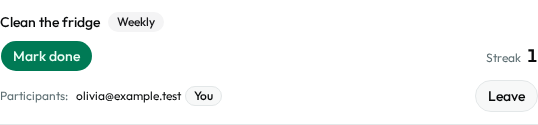
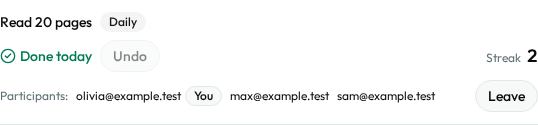
fix(dashboard-ui): full-plan review fixes and impl review report
Full-plan /10x-impl-review of S-11 on master at 9ae70ee: APPROVED,
0 critical, 1 warning and 4 observations, all fixed.

- ui-screenshots: pin a control's region before its action, so the
  check-off pending shot shows the tapped row, and wait for the held
  state inside that row; re-capture the two checkoff-pending shots (F1)
- CLAUDE.md: the UI rules name the settings markup and SettingsView (F2)
- ui-screenshots: require OUT_DIR instead of defaulting to this
  change's folder, which moves at archive; README says so (F3)
- records: the S-12 plan line in deployment-plan.md, and change.md
  says that the /settings page answers 503, not its loader (F4)
- kitchen sink: "checked-off" instead of "ticked", which the
  glossary rules out (F5)
- change.md: status impl_reviewed

diff --git a/src/components/dev/DashboardControlStates.tsx b/src/components/dev/DashboardControlStates.tsx
@@ -167,7 +167,10 @@ export default function DashboardControlStates() {
         </div>
       </StateCard>
 
-      <StateCard title="Done state" description="A ticked daily and once task: the success colour, the icon and Undo">
+      <StateCard
+        title="Done state"
+        description="A checked-off daily and once task: the success colour, the icon and Undo"
+      >
         <CheckoffControl
           taskId={DEMO_TASK_ID}
           title="Water the plants"

diff --git a/context/changes/dashboard-ui/reviews/impl-review.md b/context/changes/dashboard-ui/reviews/impl-review.md
@@ -1,0 +1,160 @@
+<!-- IMPL-REVIEW-REPORT -->
+
+# Implementation Review: Dashboard UI Implementation Plan
+
+- **Plan**: context/changes/dashboard-ui/plan.md
+- **Scope**: Full plan
+- **Reviewed phases**: 1, 2, 3
+- **Date**: 2026-10-12
+- **Verdict**: APPROVED (after triage: F1–F5 fixed)
+- **Findings**: 0 critical, 1 warning, 4 observations
+
+## Verdicts
+
+| Dimension           | Verdict               |
+| ------------------- | --------------------- |
+| Plan Adherence      | PASS (2 observations) |
+| Scope Discipline    | PASS                  |
+| Safety & Quality    | PASS                  |
+| Architecture        | PASS (1 observation)  |
+| Pattern Consistency | PASS (1 observation)  |
+| Success Criteria    | WARNING (1 finding)   |
+
+## Scope and evidence
+
+- **Code reviewed.** `master` at `9ae70ee`, after the merge of PR #104, compared with the plan merge `2ec358b`. The range holds three phase PRs:
+  - PR #102 (`d52fa40`, `3abd5fd`);
+  - PR #103 (`2eba8e5`, `b2e14f9`);
+  - PR #104 (`fe33841`, `af3c093`).
+
+  The diff has 228 files, 166 of them screenshots.
+
+- **Plan adherence.** All 28 planned changes match the plan, or the owner's amendments in `change.md:115-131`: the `/settings` page, the Main nav, the 3:2 grid and the participants wording. Since review, `plan.md` has changed only in `## Progress`.
+- **Boundaries held.**
+  - Unchanged: `src/lib/dashboard-data.ts`, `tests/unit/dashboard-data.test.ts`, `src/pages/api/**`, `supabase/`, `package.json` and `package-lock.json`.
+  - The landing, privacy and auth pages changed only through the tokens.
+  - There is no `toHaveScreenshot` and no Playwright in CI.
+  - The `loadDashboard` lines that S-12 edits are byte-identical: `2ec358b:src/pages/dashboard.astro:18-38` equals `:7-27` on `master`.
+- **Markup invariants.** Every invariant the tests bind (`plan.md:233-252`) holds on `master`.
+- **Safety.**
+  - The `?error=` script interpolates nothing, and nothing in `src` uses `set:html`.
+  - In a production build the kitchen sink answers 404. `dist/` holds no `example.test`.
+  - `/settings` is protected: an exact match or `route + "/"`, on the decoded path.
+  - Astro's origin check is on, and `loadSettings` reports `settings.load.failed` with `requestFields`.
+  - The islands keep hydration parity, and there is no schema change.
+- **Earlier triage.** Every fix recorded in the three phase reviews is on `master`. The owner skipped phase 1 F1 (`.claude/settings.local.json` committed), so it is not raised again.
+- **Outside this review.** These are noted here, not raised as findings:
+  - The merge of PR #104 started run 38281674338. Its `release` waits in `production` and holds documents only, so the next release cancels it.
+  - The Node.js 20 and `ubuntu-latest` annotations from the phase 3 review still show on the release runs.
+  - The local branch `s-11/dashboard-ui/phase-1` holds `0b45e34`, which is not on `master`. Its tick reached `master` through PR #104. `git branch -d` refuses that branch, so `/10x-archive` asks before deleting it.
+
+## Success criteria
+
+| #                             | Check                                  | Result                                                                                                                                                                                                                                                                                    |
+| ----------------------------- | -------------------------------------- | ----------------------------------------------------------------------------------------------------------------------------------------------------------------------------------------------------------------------------------------------------------------------------------------- |
+| 1.1, 2.1                      | `npm run lint`                         | PASS                                                                                                                                                                                                                                                                                      |
+| 1.2                           | Guard probe on `MembersCard.astro`     | PASS: exit 1 with the guard's message                                                                                                                                                                                                                                                     |
+| 1.3, 2.2                      | Literal scan of the view files         | PASS: no hits, and none in `settings.astro`                                                                                                                                                                                                                                               |
+| 1.4, 2.3                      | `node scripts/token-contrast.mjs`      | PASS: all 17 gating pairs; D6 at 3.51:1 is information only                                                                                                                                                                                                                               |
+| 1.5, 2.4                      | `npx astro sync && npx astro check`    | PASS: 0 errors and 0 warnings; the 4 hints are in `context/audits/` probes, outside this change                                                                                                                                                                                           |
+| 1.6, 2.5                      | `npm run build`                        | PASS                                                                                                                                                                                                                                                                                      |
+| 1.7, 2.6                      | `npm test`                             | PASS: 30 files, 409 tests                                                                                                                                                                                                                                                                 |
+| 1.8, 2.7                      | Smoke on the production preview        | PASS: 227 steps, with `INFO  production build`. For the run, `CONTACT_EMAIL` was added to `.dev.vars` (CI sets it); the file was then restored with the same checksum, and `dist/` was rebuilt                                                                                            |
+| 1.9, 2.8                      | `npx playwright test`                  | PASS: 3 tests                                                                                                                                                                                                                                                                             |
+| 1.10, 1.11, 2.9               | The `rg` checks                        | PASS: no output                                                                                                                                                                                                                                                                           |
+| 1.12, 2.10                    | `gh pr checks 102`, `gh pr checks 103` | PASS: `changes`, `ci`, `integration` and `smoke` pass; `release` skips on a PR                                                                                                                                                                                                            |
+| 3.1                           | Release runs of both phase merges      | PASS with the `gh` 2.4.0 command in `change.md:135`: runs 38222989341 and 38277781844 end `success` in all five jobs                                                                                                                                                                      |
+| 1.13–1.16, 2.11–2.17, 3.2–3.4 | Manual rows in `## Progress`           | All ticked, with evidence: `before-public` and `phase1-public` (8 each), `phase1-states` (22), `after-states` (30, 15 states), `after-controls` (98, 49 controls), `change.md:91-131` and Phase 14 in `deployment-plan.md`. For 2.11, the two held check-off cells have no real shot (F1) |
+
+## After triage
+
+- **Files changed by the fixes.** These are on `s-11/dashboard-ui/review-fix`:
+  - `scripts/ui-screenshots.mjs` (F1, F3);
+  - the two `after-controls-checkoff-pending-*` files under `screenshots/` (F1);
+  - `CLAUDE.md` (F2);
+  - `README.md` (F3);
+  - `context/changes/deployment/deployment-plan.md` and `context/changes/dashboard-ui/change.md` (F4);
+  - `src/components/dev/DashboardControlStates.tsx` (F5).
+- **Checks.**
+  - `npm run lint` passes, and the literal scan of `src/components/dev` prints nothing.
+  - `npx prettier --check` passes on every changed text file.
+  - Without `OUT_DIR`, `node scripts/ui-screenshots.mjs after controls` prints the usage line and exits 1, and writes nothing.
+- **F1 re-capture.**
+  - **The run.** `OUT_DIR=<scratch> node scripts/ui-screenshots.mjs after controls`, against `astro dev` with the pages warmed. It took 98 shots and exited 0.
+  - **The new shots.** Both `checkoff-pending` shots show the tapped row "Read 20 pages" held: "Done today" in the success colour, a dimmed "Undo" and the streak raised from 1 to 2. Only these two files replaced the committed ones.
+  - **The rest.** 93 shots are byte-identical to the committed files. Three differ only in their animation frame (`add-task-hover-desktop`, `add-task-summary-hover-desktop`, `dialog-submitting-desktop`) and were not replaced.
+- **Not affected.** The fixes touch no code that smoke, Vitest or the build cover. `DashboardControlStates` renders only in the dev kitchen sink.
+
+## Findings
+
+### F1 — The check-off pending shot shows the wrong row
+
+- **Severity**: ⚠ WARNING
+- **Impact**: 🏃 LOW — quick decision; fix is obvious and narrowly scoped
+- **Dimension**: Success Criteria
+- **Location**: scripts/ui-screenshots.mjs:234-246 (with :40, :45, :405, :418), context/changes/dashboard-ui/screenshots/after-controls-checkoff-pending-{desktop,mobile}.png
+- **Detail**: The check-off row of the 7-state matrix (`plan.md:765`) needs two shots of a held request: "dimmed and `aria-disabled`" (disabled) and "optimistic flip" (loading). The `checkoff-pending` control is meant to give both.
+  - **How it goes wrong.**
+    - The region is a lazy locator: the `li` above the first button named "Mark done …" (`inRow(markDone(p))`, :40, :45), built at :405.
+    - `run` clicks that button, so its row flips to "Undo …".
+    - `capture()` (:418) then resolves the locator again and finds the next row that still has "Mark done".
+  - **Why the script still exits 0.** The wait at :243 looks for any `[aria-disabled="true"]` on the page, not in the region.
+  - **The committed shots.** Both `after-controls-checkoff-pending-*` files show "Clean the fridge / Weekly" with an enabled "Mark done". `checkoff-failed` shows the row that was tapped, "Read 20 pages".
+  - **Effect.** Criterion 2.11 is ticked, and the phase 2 review listed this shot as evidence (`impl-review-phase-2.md:79`). The check-off logic is unchanged since `2ec358b`, so what is missing is the evidence for those two cells. S-13 inherits the gate and would capture the wrong row again.
+- **Fix**: Pin the region before `run`, by taking `region.elementHandle()` in the loop at :404-418. Fail when the captured row holds no `[aria-disabled="true"]`. Then re-run the `controls` set against `astro dev` into a scratch `OUT_DIR`, and replace only the two `after-controls-checkoff-pending-*` files.
+- **Decision**: FIXED (Fix now).
+  - `shootControls` now pins the region with `elementHandle()` before the action and passes it to `run`.
+  - `checkoff-pending` waits for `[aria-disabled="true"]` inside the tapped row, so a wrong row now fails the run.
+  - The two re-captured shots replace the committed ones.
+
+### F2 — CLAUDE.md's UI rules leave out /settings
+
+- **Severity**: ℹ OBSERVATION
+- **Impact**: 🏃 LOW — quick decision; fix is obvious and narrowly scoped
+- **Dimension**: Plan Adherence
+- **Location**: CLAUDE.md:37-38
+- **Detail**: Phase 1 wrote the rules for the dashboard. Phase 2 added `settings.astro` only to the "No literals" bullet (:35, phase 2 F1).
+  - **"Smoke binds the markup"** (:37) says that smoke binds "the dashboard markup". It now binds the `/settings` markup too: `groupSettingsFor` and `DASHBOARD_LINK_IN_MAIN` (`smoke.mjs:392-397`), and six `settings …` steps (`:751` to `:2069`).
+  - **"The gate"** (:38) says the kitchen sink renders "the real `DashboardView`". It also renders `SettingsView` in four `settings-*` states (`dashboard-kitchen-sink.astro:45`, `dashboard-fixtures.ts:44-47`). README.md:335 already says so.
+- **Fix**: At :37, say that smoke binds the dashboard and settings markup. At :38, name `SettingsView` and its `settings-*` states.
+- **Decision**: FIXED (Fix now). CLAUDE.md:37 now says "the dashboard and settings markup". CLAUDE.md:38 now says that the kitchen sink renders `DashboardView` and `SettingsView` in every page state of `/dashboard` and `/settings` (`settings-*`).
+
+### F3 — The screenshot script writes into this change's folder by default
+
+- **Severity**: ℹ OBSERVATION
+- **Impact**: 🏃 LOW — quick decision; fix is obvious and narrowly scoped
+- **Dimension**: Architecture
+- **Location**: scripts/ui-screenshots.mjs:14, README.md:335
+- **Detail**: CLAUDE.md:38 presents the script as the standing UI gate, but `OUT_DIR` defaults to `context/changes/dashboard-ui/screenshots` (:14). Plan P1.8 asked for that default, and README.md:335 documents it.
+  - `/10x-archive` moves the change folder to `context/archive/`.
+  - A later run without `OUT_DIR`, for example in S-13, then creates `context/changes/dashboard-ui/` again, with no `change.md` (`mkdir` with `recursive: true`, :434).
+  - Before the archive, a reused prefix such as `after` overwrites this slice's evidence.
+- **Fix**: Exit 1 with the usage line when `OUT_DIR` is not set. Change README.md:335 to say that `OUT_DIR` names the change's `screenshots/` folder.
+- **Decision**: FIXED (Fix now).
+  - `OUT_DIR` has no default.
+  - Without it, the script prints `Usage: OUT_DIR=context/changes/<change-id>/screenshots node scripts/ui-screenshots.mjs …` and exits 1. The header comment gives the same form.
+  - README.md:335 says that `OUT_DIR` is required and names the change's `screenshots/` folder.
+
+### F4 — Two record lines are inaccurate
+
+- **Severity**: ℹ OBSERVATION
+- **Impact**: 🏃 LOW — quick decision; fix is obvious and narrowly scoped
+- **Dimension**: Plan Adherence
+- **Location**: context/changes/deployment/deployment-plan.md:270, context/changes/dashboard-ui/change.md:117
+- **Detail**:
+  - **deployment-plan.md:270** cites `refactor-opportunities/plan.md:385` for S-12's `dashboard.astro:33-38` pointer. Phase 3 F1 inserted a note at :344, so the pointer moved to :386; :385 is now the "Patterns" line.
+  - **change.md:117** says that `loadSettings` "przy błędzie raportuje `settings.load.failed` i odpowiada 503". The loader only returns `loadFailed` (`settings-data.ts:31-34`); the page sets the status (`settings.astro:16`). Phase 3 F3 fixed the same wording in `deployment-plan.md`, but not here.
+- **Fix**: In deployment-plan.md:270, change `:385` to `:386`. In change.md:117, reword the clause to "…raportuje `settings.load.failed`, a strona odpowiada wtedy 503".
+- **Decision**: FIXED (Fix now). deployment-plan.md:270 now cites `refactor-opportunities/plan.md:386`. change.md:117 now reads "…raportuje `settings.load.failed`; strona odpowiada wtedy 503".
+
+### F5 — Kitchen-sink text says "ticked", which the glossary rules out
+
+- **Severity**: ℹ OBSERVATION
+- **Impact**: 🏃 LOW — quick decision; fix is obvious and narrowly scoped
+- **Dimension**: Pattern Consistency
+- **Location**: src/components/dev/DashboardControlStates.tsx:170
+- **Detail**: The "Done state" card's description reads "A ticked daily and once task: the success colour, the icon and Undo".
+  - The glossary row "Odznaczenie" (`context/domain/glossary.md:25`) lists "tick" under "Nie nazywaj", except in comments.
+  - This is the only such word the change adds outside comments. The smoke step names that say "tick" predate S-11.
+- **Fix**: Reword it to "A checked-off daily and once task: the success colour, the icon and Undo".
+- **Decision**: FIXED (Fix now). The description now reads "A checked-off daily and once task: …", and Prettier wraps the `StateCard` props onto their own lines.

diff --git a/README.md b/README.md
@@ -332,7 +332,7 @@ BASE_URL=http://localhost:4321 npm run smoke
 
 It needs a reachable Supabase instance (local or cloud) with email confirmation disabled and all migrations from `supabase/migrations/` applied (groups, tasks, task participation, check-offs).
 
-**Dashboard kitchen sink and screenshots.** In dev (`npm run dev`), `/dev/dashboard-kitchen-sink` lists every page state of the dashboard (`?state=owner`, `member`, `no-group`, `load-failed` and the rest) and of the settings page (`settings-owner`, `settings-member`, `settings-no-group`, `settings-load-failed`), rendered by the real `DashboardView` or `SettingsView` inside `AppLayout` from fixture data, with no Supabase call, and shows the control states; a production build answers 404. `node scripts/ui-screenshots.mjs <prefix> <set...>` captures the sets `public` (the public pages), `states` (every kitchen-sink state) and `controls` (hover, focus and the pending and failed states of representative controls) with Playwright's Chromium at 1280×800 and 375×812, into `context/changes/dashboard-ui/screenshots/` (`OUT_DIR` overrides it), against a running dev server (`BASE_URL`, default `http://localhost:4321`). Stop that dev server before running smoke or Playwright against the production preview on the same port.
+**Dashboard kitchen sink and screenshots.** In dev (`npm run dev`), `/dev/dashboard-kitchen-sink` lists every page state of the dashboard (`?state=owner`, `member`, `no-group`, `load-failed` and the rest) and of the settings page (`settings-owner`, `settings-member`, `settings-no-group`, `settings-load-failed`), rendered by the real `DashboardView` or `SettingsView` inside `AppLayout` from fixture data, with no Supabase call, and shows the control states; a production build answers 404. `node scripts/ui-screenshots.mjs <prefix> <set...>` captures the sets `public` (the public pages), `states` (every kitchen-sink state) and `controls` (hover, focus and the pending and failed states of representative controls) with Playwright's Chromium at 1280×800 and 375×812, into the folder named by `OUT_DIR` (required: the change's `screenshots/` folder, e.g. `context/changes/<change-id>/screenshots`), against a running dev server (`BASE_URL`, default `http://localhost:4321`). Stop that dev server before running smoke or Playwright against the production preview on the same port.
 
 > **Note:** this script exists primarily to guard the development of the starter itself — it is a fast sanity check that dependency upgrades did not break the build, the Cloudflare adapter or the Supabase auth flow. It is **not** a substitute for a real test suite. Once you build your own product on top of this starter, add proper tests (unit, integration, end-to-end) suited to your application.
 

diff --git a/CLAUDE.md b/CLAUDE.md
@@ -34,8 +34,8 @@ Astro 7 SSR app (`output: "server"` in `astro.config.mjs`) with React 19 islands
 - **Components.** They live in `src/components/ui/` (`radix-maia`, lucide icons). Check there before creating one, and add a missing one with `npx shadcn@latest add <name>` (preview with `--dry-run`). The registry imports `cn` from the npm package `cn`: point the new file at `@/lib/utils` and restore the package files (`git checkout -- package.json package-lock.json && npm ci`); ESLint rejects the `cn` package import. Shared form pieces (`FormField`, `SubmitButton`) live in `src/components/forms/`.
 - **No literals.** No literal colours or arbitrary values in views; use tokens. In the dashboard view files (`src/pages/dashboard.astro`, `src/pages/settings.astro`, `src/pages/dev/`, `src/layouts/`, `src/components/{dashboard,tasks,groups,forms,site,dev}/`) ESLint rejects hex colours, colour functions, Tailwind palette classes and arbitrary px/rem values; other arbitrary values (`%`, `calc()`, `var()`) are left to review. When prose trips the rule, reword it; do not weaken the rule.
 - **No `asChild` from `.astro`.** Astro hands a React component its `.astro` children as static HTML, so `asChild` loses the child's props. Use `CardTitle as="h2"` for card headings, and `<a class:list={buttonVariants(...)}>` for link buttons.
-- **Smoke binds the markup.** `scripts/smoke.mjs` binds the dashboard markup with regular expressions (one `<li>` per task, exact `<h2>` card headings, badges and buttons holding only their text, `role="alert"` only for errors): keep its invariants, or change smoke in the same change.
-- **The gate.** The dev-only kitchen sink `/dev/dashboard-kitchen-sink` renders the real `DashboardView` from fixtures (`src/components/dev/dashboard-fixtures.ts`) in every page state, plus the control states. `scripts/ui-screenshots.mjs` captures them against a running `astro dev` (see `@README.md`, Smoke test).
+- **Smoke binds the markup.** `scripts/smoke.mjs` binds the dashboard and settings markup with regular expressions (one `<li>` per task, exact `<h2>` card headings, badges and buttons holding only their text, `role="alert"` only for errors): keep its invariants, or change smoke in the same change.
+- **The gate.** The dev-only kitchen sink `/dev/dashboard-kitchen-sink` renders the real `DashboardView` and `SettingsView` from fixtures (`src/components/dev/dashboard-fixtures.ts`) in every page state of `/dashboard` and `/settings` (`settings-*`), plus the control states. `scripts/ui-screenshots.mjs` captures them against a running `astro dev` (see `@README.md`, Smoke test).
 
 ## Parallel work (git worktrees)
 

diff --git a/context/changes/dashboard-ui/change.md b/context/changes/dashboard-ui/change.md
@@ -1,7 +1,7 @@
 ---
 change_id: dashboard-ui
 title: Dashboard ui
-status: implemented
+status: impl_reviewed
 created: 2026-10-09
 updated: 2026-10-12
 archived_at: null
@@ -114,7 +114,7 @@ Przekazania:
 
 ### Decyzje właściciela po przeglądzie ręcznym fazy 2 (2026-10-12)
 
-- **Ustawienia grupy na osobnej stronie.** Karta „Group settings” opuszcza dashboard i jest na nowej chronionej stronie `/settings` (`src/pages/settings.astro`, widok `SettingsView.astro`, loader `loadSettings` w `src/lib/settings-data.ts`, który czyta tylko grupę i przy błędzie raportuje `settings.load.failed` i odpowiada 503). Właściciel ma tam Rename group, a na końcu Delete group; członek ma Leave group; bez grupy strona odsyła linkiem na `/dashboard`. Prawa kolumna dashboardu to teraz Leaderboard, potem Members z linkiem zaproszenia.
+- **Ustawienia grupy na osobnej stronie.** Karta „Group settings” opuszcza dashboard i jest na nowej chronionej stronie `/settings` (`src/pages/settings.astro`, widok `SettingsView.astro`, loader `loadSettings` w `src/lib/settings-data.ts`, który czyta tylko grupę i przy błędzie raportuje `settings.load.failed`; strona odpowiada wtedy 503). Właściciel ma tam Rename group, a na końcu Delete group; członek ma Leave group; bez grupy strona odsyła linkiem na `/dashboard`. Prawa kolumna dashboardu to teraz Leaderboard, potem Members z linkiem zaproszenia.
 - **Kontrakt S-08 bez zmian.** Rename, delete i leave nadal przekierowują na `/dashboard`; właściciel zaakceptował, że ich alert `?error=` pokazuje się na dashboardzie, nie na `/settings`.
 - **Nawigacja.** Nagłówek stron zalogowanych ma obok marki linki „Dashboard” i „Settings” (`<nav aria-label="Main">`, `aria-current="page"` na bieżącej stronie), a „Sign out” po prawej. Na telefonie napis marki jest ukryty wizualnie (`sr-only sm:not-sr-only`), ale zostaje w HTML, więc nazwa linku i `BRAND_LINK` w smoke się nie zmieniają.
 - **Szersza kolumna tablicy wyników.** Siatka od 1024 px ma pięć kolumn: Tasks trzy, prawa kolumna dwie.

diff --git a/context/changes/deployment/deployment-plan.md b/context/changes/deployment/deployment-plan.md
@@ -267,7 +267,7 @@ Turns "rollback works in theory" into a proven, once-rehearsed step before you n
   - `/`, `/privacy` and `/auth/signin` look as in `context/changes/dashboard-ui/screenshots/phase1-public-*`.
 - Handoff to S-12 (`refactor-opportunities`; plan reviewed, not implemented yet):
   - Since this release, a failed `/dashboard` load answers `503` with the dashboard's error page ("The dashboard didn't load", the message and "Try again"), not `200` with the banner. S-12's manual step 1.6 therefore needs `503`, and a note under its criterion says so (`context/changes/refactor-opportunities/plan.md:111`).
-  - The `loadDashboard({...})` call in `src/pages/dashboard.astro` is textually unchanged, so adding S-12's `log: requestFields(Astro)` causes at most a one-line conflict. It now sits at lines 22-27, not at the `:33-38` that S-12's plan cites (`refactor-opportunities/plan.md:385`).
+  - The `loadDashboard({...})` call in `src/pages/dashboard.astro` is textually unchanged, so adding S-12's `log: requestFields(Astro)` causes at most a one-line conflict. It now sits at lines 22-27, not at the `:33-38` that S-12's plan cites (`refactor-opportunities/plan.md:386`).
   - `/settings` already passes `log: requestFields(Astro)` to its own loader, `loadSettings`, which reports `settings.load.failed`; the page then answers `503`.
   - This entry took Phase 14, the number S-12's plan names for its own release record (`context/changes/refactor-opportunities/plan.md:324,343` and Progress row 5.11). S-12 records its release as Phase 15, and a note under its criterion says so.
 
